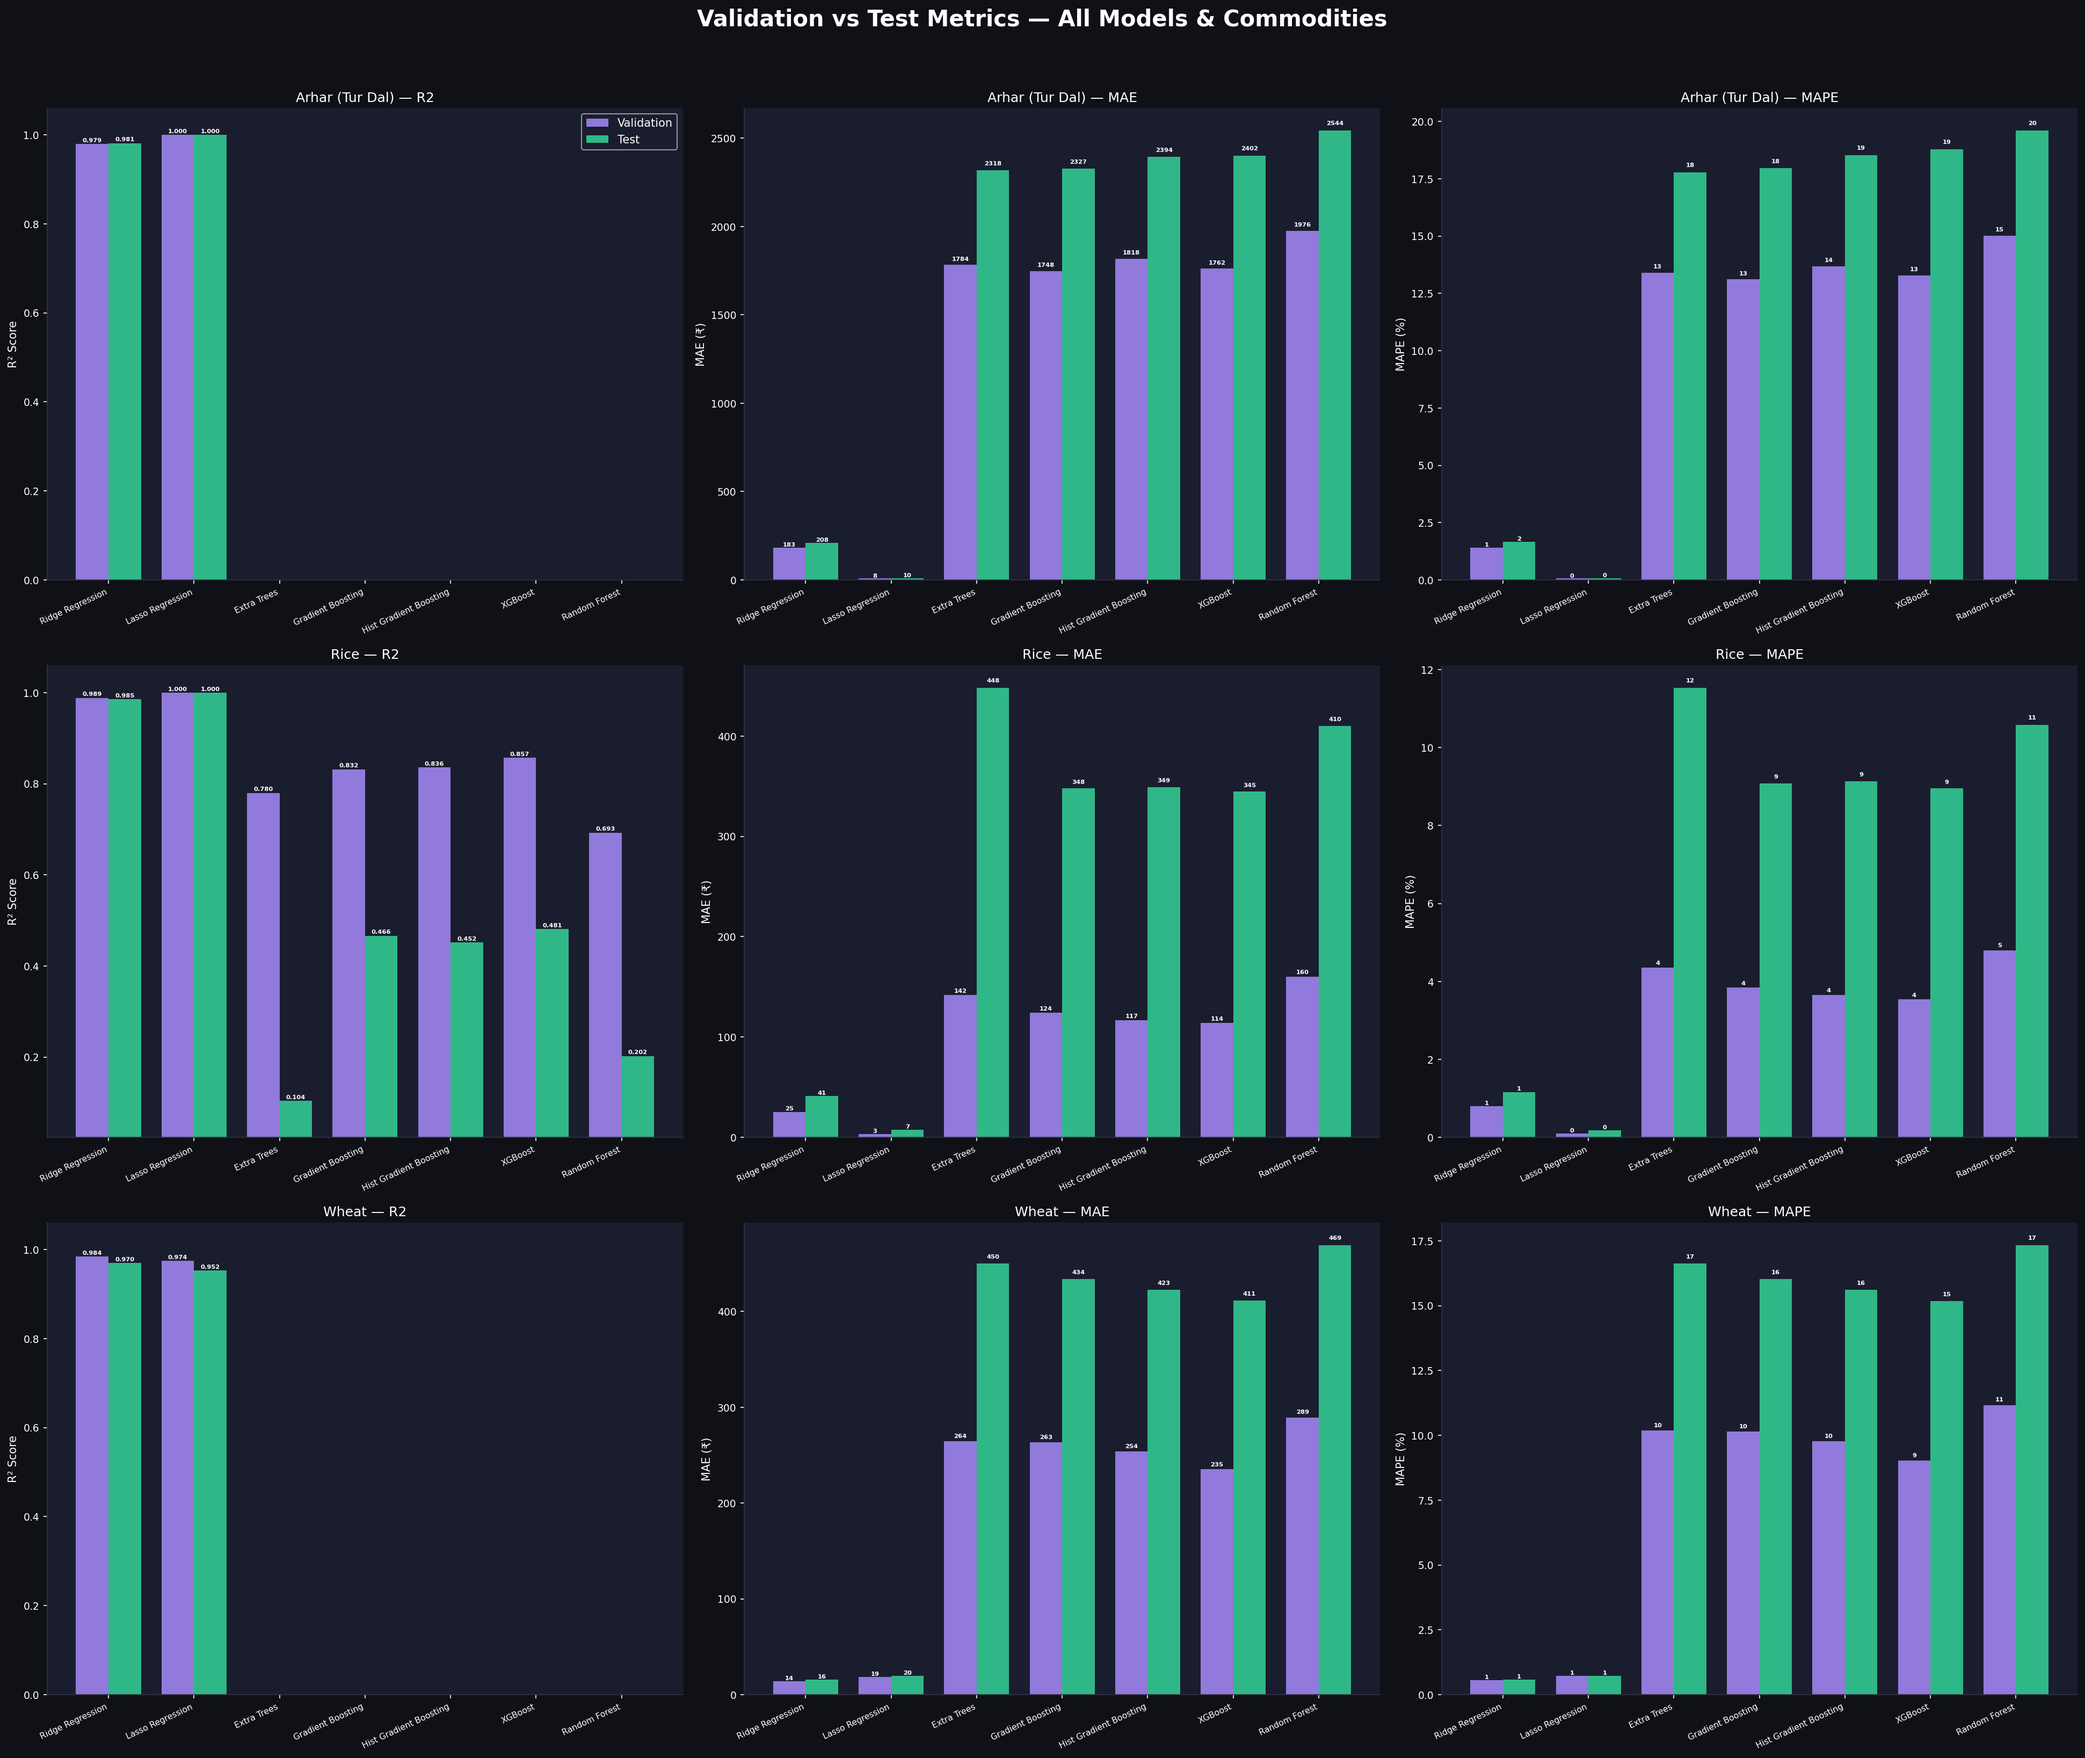
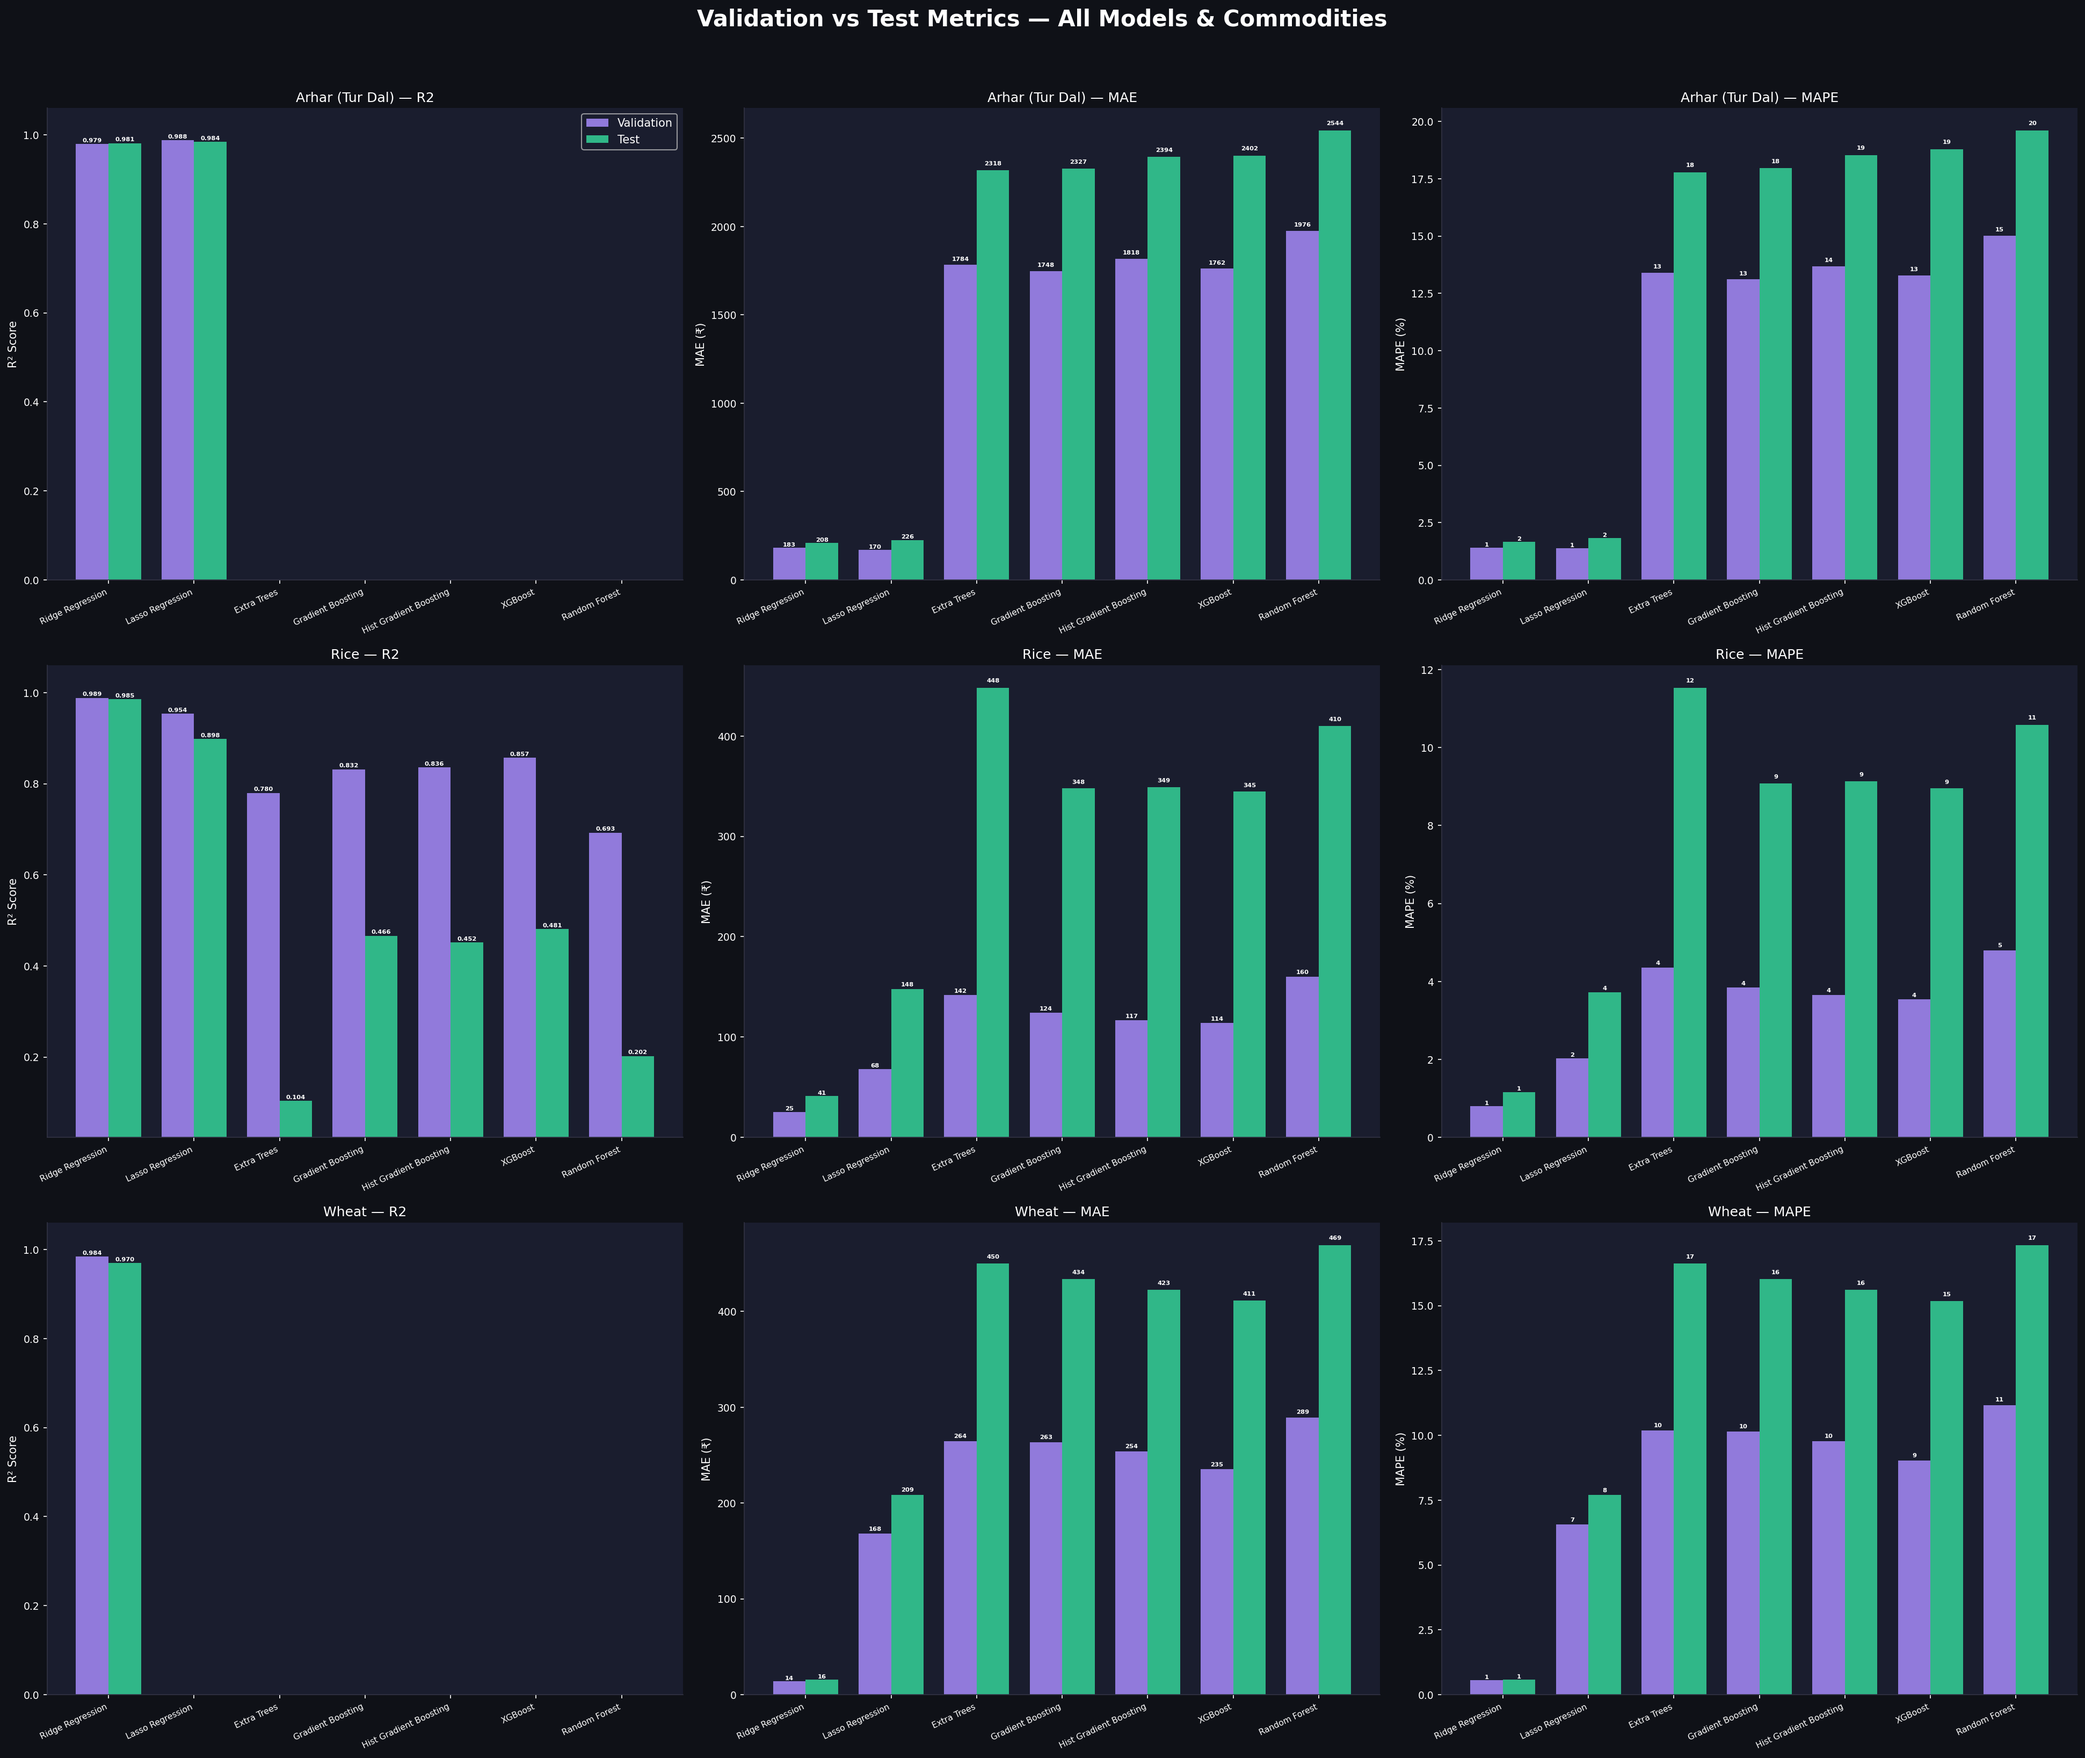
something .

diff --git a/ml_model/Cereal_ml_v4.py b/ml_model/Cereal_ml_v4.py
@@ -139,7 +139,7 @@ def build_models():
         Ridge(alpha=50, random_state=42),
 
         'Lasso Regression':
-        Lasso(alpha=2, max_iter=1000, random_state=42),
+        Lasso(alpha=40, max_iter=1000, random_state=42),
 
         'Extra Trees':             ExtraTreesRegressor(n_estimators=200, max_depth=12,
                                                        min_samples_leaf=5, random_state=42, n_jobs=-1),
